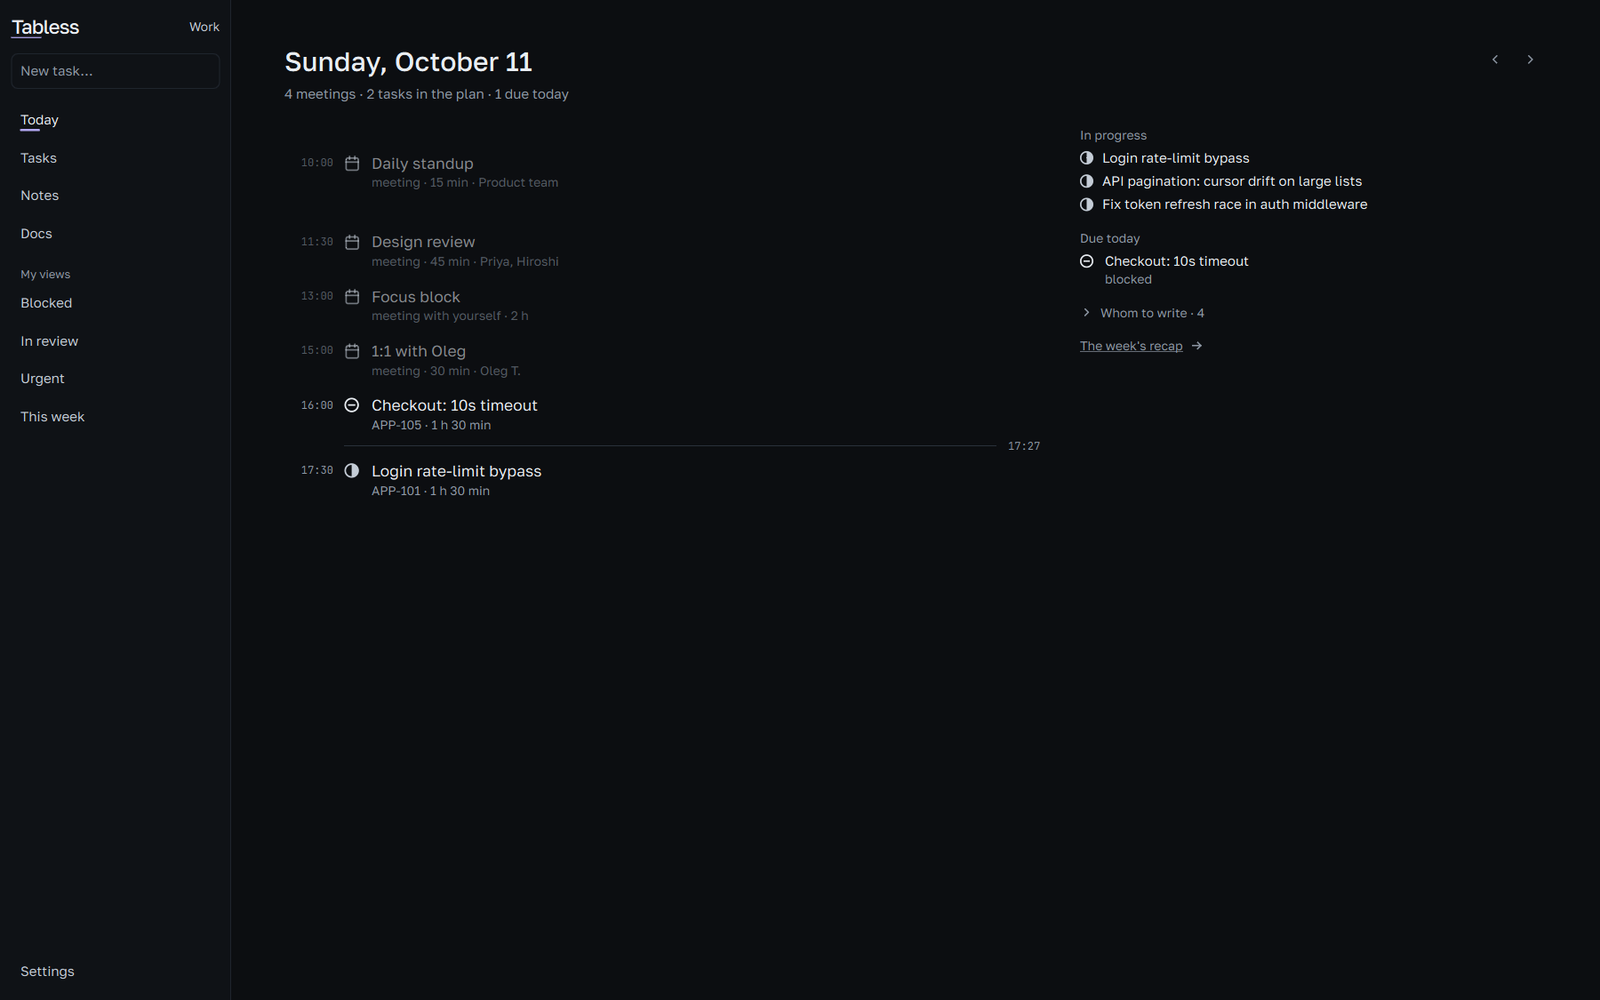
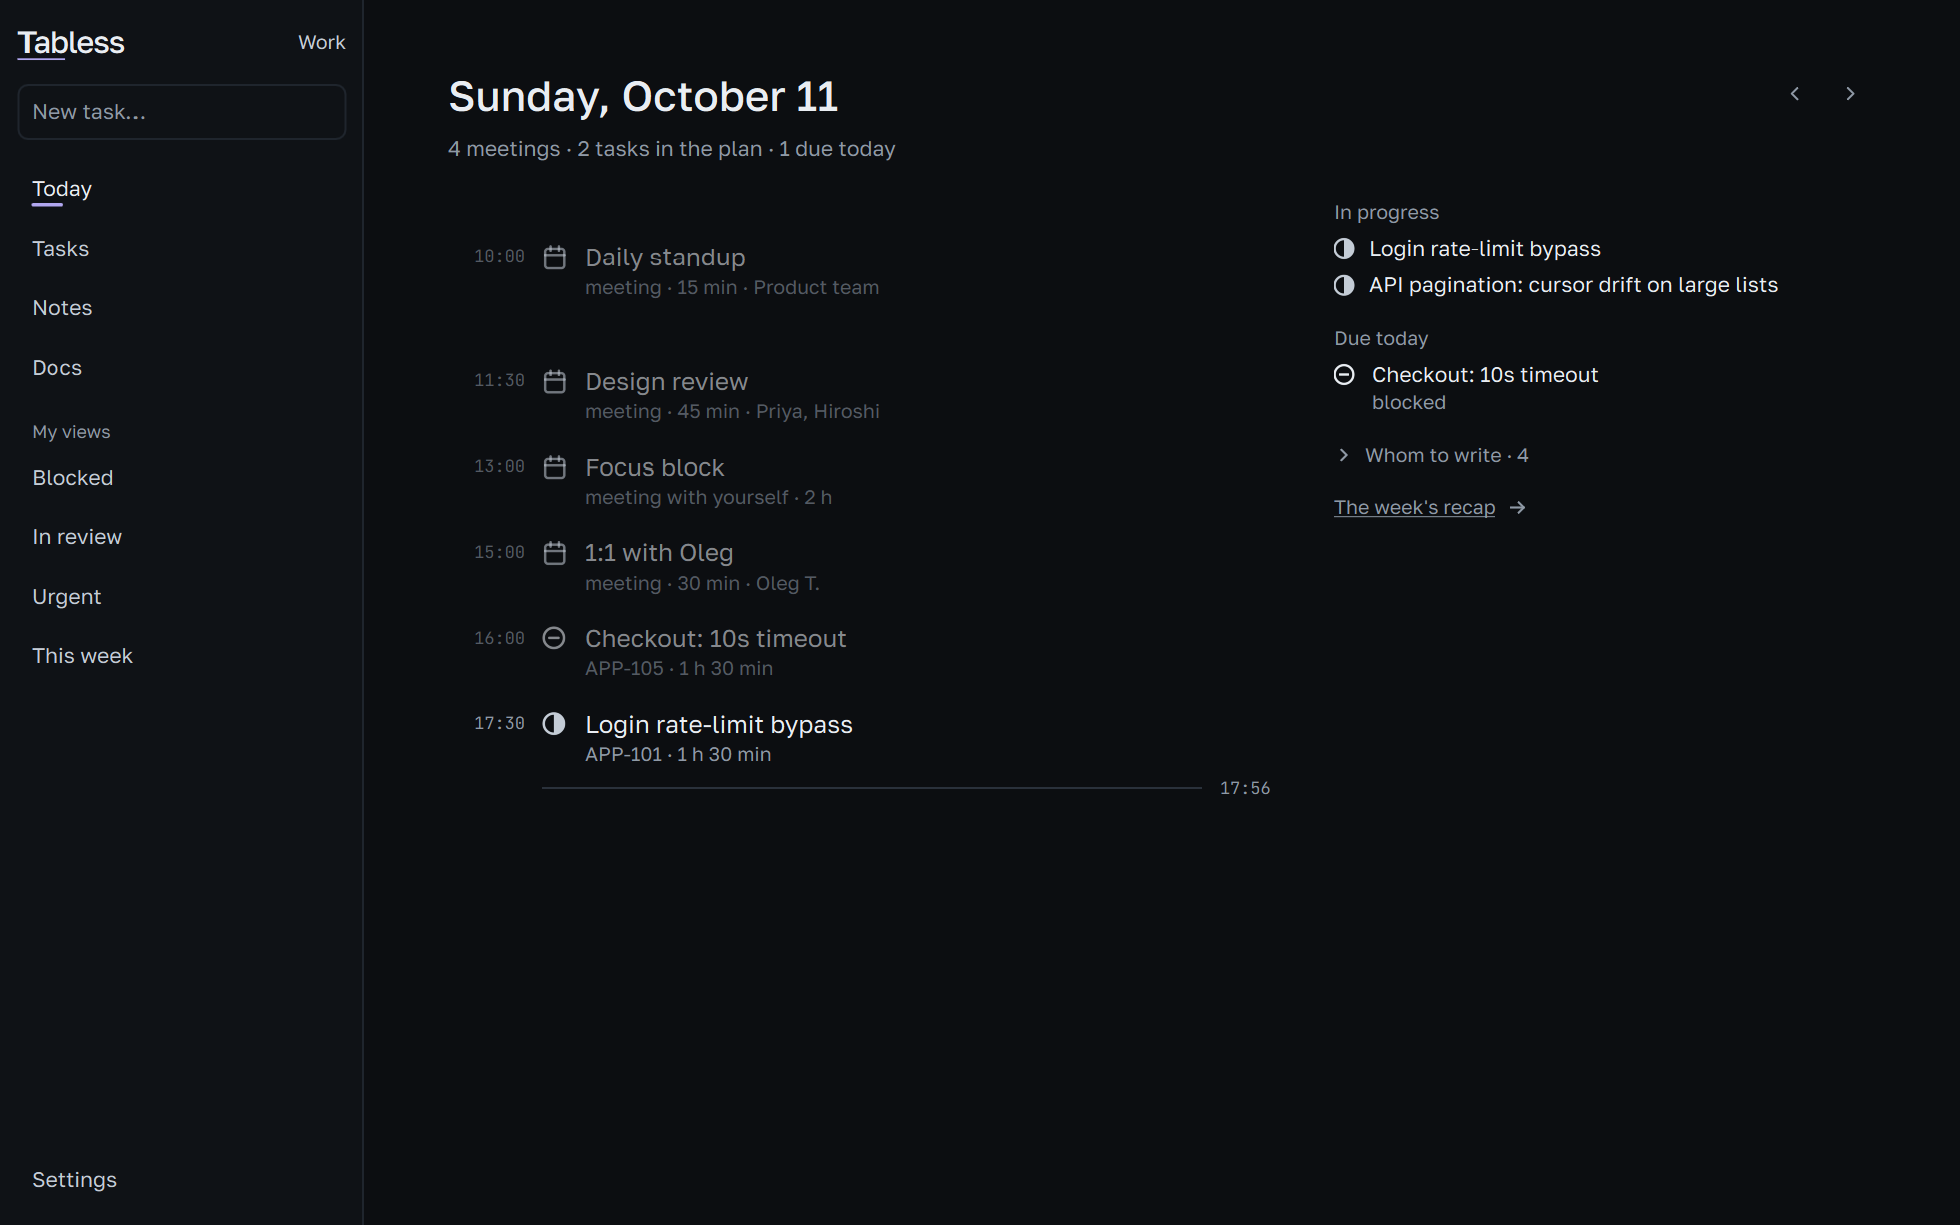
docs: README sells on the first two screens, screenshots readable at GitHub's width
The README leads with the tagline, five one-line benefits and the capture
GIF; below: a four-step start (with the lowkey/heap move and the unsigned
build note), a day with it, what it never does unasked, keys and query
language, the CLI, who it is not for.

Screenshots shot at 1120 logical px wide (QT_SCALE_FACTOR 1.75, 1960x1225)
instead of 1440, so the UI lands at ~0.75x in the 838px README column
instead of ~0.58x; the board drops its empty lower half and the week has
meetings on every day.

diff --git a/README.md b/README.md
@@ -22,170 +22,128 @@
 <p align="center">
   <a href="https://github.com/sectapunterx/tabless/releases"><img src="https://img.shields.io/github/v/release/sectapunterx/tabless?sort=semver" alt="Release"></a>
   <a href="LICENSE"><img src="https://img.shields.io/badge/license-MIT-blue" alt="License: MIT"></a>
+  <img src="https://img.shields.io/badge/Windows%20·%20macOS%20·%20Linux-grey" alt="Windows, macOS, Linux">
 </p>
 
-If your work lives in someone else's tracker, your meetings in a calendar tab and your notes somewhere else
-again, Tabless is a desk of your own next to all of that. The tasks assigned to you, today's meetings and
-your notes sit in one native window on Windows, macOS or Linux, and you drive it from the keyboard. It's
-free, MIT-licensed and needs no account. The website has the full tour:
-<https://sectapunterx.github.io/tabless/>.
+- **Your tracker tasks, one list** — GitHub, GitLab, Jira, Trello, Gitea, Forgejo, Redmine, Todoist, Asana,
+  ClickUp, Sentry, Bitbucket, plus Mattermost for @mentions. Read-only unless you switch writes on.
+- **Capture from any app** — `Ctrl+Shift+Space`, type `fix login 15:00 p1 #auth`, done.
+- **Knows your branch** — check out `APP-112-…` and APP-112 is at the top of the window.
+- **Vim-style keys** — `j` `k`, `g b`, `d`, `/`; any layout, every key rebindable.
+- **Yours, on disk** — one readable `state.json`. No account, no analytics, works offline. Free, MIT.
 
 <p align="center">
   <img src="docs/assets/img/readme/capture.gif" width="100%" alt="Quick capture: typing 'fix login 15:00 p1 #auth' over the Today screen puts the task into today's plan at 15:00">
+  <br><sub>One line, and the task is in today's plan at 15:00</sub>
 </p>
 
-This page is the practical side: whether it fits you, what it will and won't touch, and how to get going.
+## Up and running in two minutes
 
-## Is it for you?
+1. **Install** — from [the latest release](https://github.com/sectapunterx/tabless/releases/latest): Windows
+   `setup.exe` or portable `.zip`, macOS `.dmg`, Linux `.AppImage` (Qt inside, nothing else to install).
+   Or `scoop bucket add tabless https://github.com/sectapunterx/tabless` then `scoop install tabless`.
+2. **Connect a tracker** — Settings → Integrations → **Connect with browser**. A token works everywhere too.
+3. **Add your calendar** — paste an `.ics` link from Outlook, Google or iCloud. Read-only.
+4. **Press `?`** — every key on one screen.
 
-**Probably yes, if:**
-
-- you take tasks from any of 13 trackers — GitHub, GitLab, Jira, Trello, Gitea, Forgejo, Redmine, Todoist,
-  Asana, ClickUp, Sentry, Bitbucket, and Mattermost (for @mentions) — one of them or several at once;
-- you'd rather press `j` than reach for the mouse, and you already know what `g g` does;
-- you want your plans in a file on your own disk, readable with any text editor;
-- you keep notes in Markdown, maybe in an Obsidian vault.
-
-**Probably not, if:**
-
-- you need a shared board for your team — it is a personal desk, the team's tracker stays the shared place;
-- you want something to plan your day for you — it shows you the facts and leaves the decisions to you;
-- you need live sync between machines today — moving work between computers is export and import for now;
-- you work from a phone — there is no mobile or web version.
-
-## What changes once it's installed
-
-**Mornings start on one screen.** Today puts the meetings and tasks of the day together, with what is in
-progress and what is due. Calendars come in by link (Outlook, Google, iCloud `.ics`), read-only.
-
-**Thoughts stop getting lost.** `Ctrl+Shift+Space` opens a capture line over whatever app you are in.
-Type `review PR tomorrow 11:00 p1 #api` — date, time, priority and label are read from the words, in
-English or Russian. `Ctrl+Shift+N` does the same for a note.
-
-**Your branch tells it what you're on.** Add a repository in Settings → Git. Check out `APP-112-…` and
-APP-112 shows at the top of the window; the PR state comes from your own `gh` or `glab`. Switching to the
-branch also moves the task to In Progress — one switch in the same settings turns that off.
-
-**Tickets get your private layer.** On any tracker task you can keep your own notes, checklist, tags and
-dates. A sync never overwrites them, and none of it goes back to the tracker.
-
-**Notes link to work.** Write `#APP-112` in a note and it becomes a link carrying the task's title. Bring an
-existing folder of `.md` files in — you see what will come in before anything is copied.
-
-<sub>Click a line to see the screen.</sub>
+**Coming from lowkey or heap?** Same app, new name. On the first start your data folder is copied over
+once — tasks, notes, settings, backups, snapshots and tracker tokens, so nothing needs signing in again.
+The old folder stays where it was, with a `MOVED-TO-TABLESS.txt` note inside.
 
 <details>
-<summary><b>Board — your tasks by status, one keypress per move</b></summary>
+<summary><b>Windows or macOS warns you on first launch?</b></summary>
 <br>
-<img src="docs/assets/img/readme/board.png" width="100%" alt="Tasks as a board">
-</details>
-<details>
-<summary><b>Week — meetings and planned tasks side by side</b></summary>
-<br>
-<img src="docs/assets/img/readme/calendar.png" width="100%" alt="Tasks as a week calendar">
-</details>
-<details>
-<summary><b>A task opens as a document — plan, code, history</b></summary>
-<br>
-<img src="docs/assets/img/readme/task.png" width="100%" alt="A task open as a document">
-</details>
-<details>
-<summary><b>Knowledge — Markdown notes linked to tasks</b></summary>
-<br>
-<img src="docs/assets/img/readme/knowledge.png" width="100%" alt="Knowledge with a note open">
-</details>
-<details>
-<summary><b><code>Ctrl+K</code> — find anything, run any command</b></summary>
-<br>
-<img src="docs/assets/img/readme/command.png" width="100%" alt="The command line over Tasks">
-</details>
-<details>
-<summary><b>The Quiet style — the same day, less on screen</b></summary>
-<br>
-<img src="docs/assets/img/readme/quiet.png" width="100%" alt="Today in the Quiet style">
-</details>
-
-## What it won't do without asking
-
-- **Write to your trackers.** Issues come in read-only. Changing an issue's status when you move its card
-  is a separate switch per tracker (GitHub, GitLab, Gitea, Forgejo, Jira), off until you turn it on — and
-  even then the issue is checked again before anything is sent. Titles, descriptions and comments are
-  never written. Details: [docs/INTEGRATIONS.md](docs/INTEGRATIONS.md).
-- **Phone home.** No analytics, no crash reports. The app checks for a new version on start — you can
-  turn that off in Settings → About — and installs one only when you click to update. The rest of its
-  traffic is what you connected yourself: trackers, calendar links, `gh`/`glab` for added repositories.
-- **Run in the background.** It works while its window or tray icon is open. Starting at login is off
-  until you switch it on.
-- **Lose your work.** A backup of your data is made daily by default (the newest 20 are kept), plus a time
-  machine of snapshots you can step back through.
-
-## Install
-
-From [the latest release](https://github.com/sectapunterx/tabless/releases/latest), where `X.Y.Z` is the
-version:
-
-| System | File |
-| --- | --- |
-| Windows | `tabless-vX.Y.Z-windows-setup.exe` — installer, or `tabless-vX.Y.Z-windows-portable.zip` — unzip anywhere and run `tabless.exe` |
-| macOS | `tabless-vX.Y.Z-macos.dmg` — open it and drag Tabless into Applications |
-| Linux | `tabless-vX.Y.Z-linux-x86_64.AppImage` — `chmod +x` and run; Qt is inside, nothing else to install |
-
-With [Scoop](https://scoop.sh) on Windows:
-
-```sh
-scoop bucket add tabless https://github.com/sectapunterx/tabless
-scoop install tabless
-```
-
-Uninstalling leaves your data folder in place.
-
-**Coming from lowkey or heap?** Tabless is the same app under a new name. On the first start your data
-folder is copied over once — tasks, notes, settings, backups, snapshots and tracker tokens, so nothing
-needs signing in again. The old folder stays where it was, with a `MOVED-TO-TABLESS.txt` note inside. The
-update check in lowkey finds the new version by itself.
-
-### Why Windows or macOS warns you on first launch
 
 The builds are not signed with a paid certificate yet: a free signing service for open-source projects
-turned the application down, and the Apple developer fee is not covered yet. So the first launch shows a
-warning that has nothing to do with the code itself.
+turned the application down, and the Apple developer fee is not covered yet. The warning has nothing to do
+with the code itself.
 
 - **Windows** — SmartScreen says "Windows protected your PC": click **More info → Run anyway**. Installing
-  with Scoop (above) skips the download prompt in the browser.
+  with Scoop skips the download prompt in the browser.
 - **macOS** — the app is ad-hoc signed but not notarized: right-click it in Applications → **Open**. On
   macOS 15 and later, open it once, then go to **System Settings → Privacy & Security → Open Anyway**.
 
-To check what you downloaded: every release ships `SHA256SUMS` and an SBOM next to the files, the in-app
-updater refuses a file whose checksum does not match, and the source is here under MIT if you'd rather
-[build it yourself](#building-from-source).
+Every release ships `SHA256SUMS` and an SBOM next to the files, the in-app updater refuses a file whose
+checksum does not match, and you can [build it yourself](docs/BUILDING.md).
+</details>
 
-## Ten keys to start with
+## A day with it
 
-| Key | What it does |
+**Morning.** Today shows the meetings and tasks of the day by the hour, plus what is in progress and due.
+The week puts the meetings and the planned work side by side.
+
+<p align="center">
+  <img src="docs/assets/img/readme/calendar.png" width="100%" alt="Tasks as a week calendar">
+  <br><sub>Week — meetings and planned tasks side by side</sub>
+</p>
+
+**A thought mid-call.** `Ctrl+Shift+Space` over any app. Date, time, priority and label are read from the
+words, in English or Russian. `Ctrl+Shift+N` does the same for a note.
+
+**Starting work.** Check out the ticket's branch — the task shows up top with its PR state from your own
+`gh` or `glab`, and moves to In Progress (one switch turns that off).
+
+<p align="center">
+  <img src="docs/assets/img/readme/board.png" width="100%" alt="Tasks as a board">
+  <br><sub>Board — your tasks by status, one keypress per move</sub>
+</p>
+
+**Your own layer on every ticket.** Private notes, checklist, tags and dates on any tracker task. A sync
+never overwrites them, and none of it goes back to the tracker.
+
+<p align="center">
+  <img src="docs/assets/img/readme/task.png" width="100%" alt="A task open as a document">
+  <br><sub>A task opens as a document — plan, code, history</sub>
+</p>
+
+**Notes that point at work.** `#APP-112` in a note becomes a link with the task's title. Bring an existing
+folder of `.md` files or an Obsidian vault — you see what comes in before anything is copied.
+
+<p align="center">
+  <img src="docs/assets/img/readme/knowledge.png" width="100%" alt="Notes with a note open">
+  <br><sub>Notes — Markdown linked to tasks</sub>
+</p>
+
+## It never does these without asking
+
+| | |
 | --- | --- |
-| `Ctrl+Shift+Space` | Capture a task from any app |
-| `Ctrl+K` | Command line — find anything, run any command |
-| `?` | Every key on one screen |
-| `Ctrl+1` / `Ctrl+2` / `Ctrl+3` | Today, Tasks, Knowledge |
-| `g b` · `g l` · `g c` | Board, list, calendar |
+| **Write to your tracker** | Issues come in read-only. Status on card move is a per-tracker switch, off by default, and the issue is re-checked before anything is sent. Titles, descriptions and comments are never written. |
+| **Phone home** | No analytics, no crash reports. The update check on start can be turned off; updates install only on your click. |
+| **Run in the background** | Only while its window or tray icon is open. Start at login is off. |
+| **Lose your work** | Daily backups (newest 20 kept) and a time machine of snapshots you can step back through. |
+
+<p align="center">
+  <img src="docs/assets/img/readme/quiet.png" width="100%" alt="Today in the Quiet style">
+  <br><sub>The Quiet style — the same day, less on screen</sub>
+</p>
+
+## Built for the keyboard
+
+| Key | Does |
+| --- | --- |
+| `Ctrl+K` | Find anything, run any command |
+| `Ctrl+1` `2` `3` | Today · Tasks · Notes |
+| `g b` · `g l` · `g c` | Board · list · calendar |
 | `j` `k` · `h` `l` | Move the cursor |
-| `d` | Done — on a done task, brings it back |
-| `s` | Schedule the task under the cursor |
-| `y y` · `y b` | Copy the task id · its branch name |
+| `d` · `s` | Done · schedule |
+| `y y` · `y b` | Copy task id · branch name |
 | `/` | Filter the section you are in |
 
-Single letters only act while you aren't typing. Keys are read by their place on the keyboard, so they
-work in any layout, and every one of them can be changed from the `?` screen. The full map is in
+Keys are read by their place on the keyboard, so they work in any layout. Full map:
 [docs/HOTKEYS.md](docs/HOTKEYS.md).
 
-The filter line takes conditions as well as words — the same in board, list and calendar:
+The filter is a small query language — same in board, list and calendar:
 
 ```
-status:blocked   due:week   scheduled:none   is:overdue   priority:p0,p1
-#label   branch:login   estimate:>2h   has:notes   sprint:current   -status:done   bug OR crash
+status:blocked  due:week  is:overdue  priority:p0,p1  branch:login  estimate:>2h  -status:done  bug OR crash
 ```
 
-## The terminal is part of it
+<p align="center">
+  <img src="docs/assets/img/readme/command.png" width="100%" alt="The command line over Tasks">
+</p>
+
+## And from the terminal
 
 ```sh
 tabless today                                  # overdue first, then what's on today
@@ -193,46 +151,25 @@ tabless add "fix login tomorrow 14:00 p1 #backend"
 tabless now                                    # the current task — fits a shell prompt
 ```
 
-With the window open, changes show up there at once. On Windows the command is `tabless-cli`. The rest,
-including a starship snippet: [docs/CLI.md](docs/CLI.md).
+Changes show up in the open window at once. On Windows the command is `tabless-cli`. Starship snippet and
+the rest: [docs/CLI.md](docs/CLI.md).
 
-## Where your data lives
+## Not for you if
 
-| Windows | macOS | Linux |
-| --- | --- | --- |
-| `%APPDATA%\Tabless\Tabless\` | `~/Library/Application Support/Tabless/Tabless/` | `~/.local/share/Tabless/Tabless/` |
-
-- `state.json` — tasks, meetings, notes and settings, in one human-readable file.
-- `backups/` and `history/` — scheduled copies and time-machine snapshots.
-- `logs/tabless.log` — attach it to a bug report.
-- Tracker tokens are kept out of `state.json`: in the system credential store on Windows, in a
-  `secrets.json` readable only by your user on macOS and Linux.
-
-Two computers: export a profile to JSON and import it on the other one — importing only adds, it never
-overwrites. More in [docs/DATA.md](docs/DATA.md).
+- you need a shared team board — this is your desk, the team's tracker stays the shared place;
+- you want something to plan your day for you — it shows the facts, the decisions stay yours;
+- you need live sync between machines — for now it is export and import;
+- you work from a phone — there is no mobile or web version.
 
 ## Docs
 
 - [Keyboard](docs/HOTKEYS.md) — every key, and how to rebind them
 - [Trackers](docs/INTEGRATIONS.md) — connecting each one; what is read, what may be written
-- [Data and backups](docs/DATA.md) — files, restores, moving between machines
-- [Command line](docs/CLI.md)
-- [Building from source](docs/BUILDING.md)
+- [Data and backups](docs/DATA.md) — where files live, restores, moving between machines
+- [Command line](docs/CLI.md) · [Tutorial](docs/TUTORIAL.md)
+- [Building from source](docs/BUILDING.md) — Qt 6.9+, C++20 · [Contributing](CONTRIBUTING.md)
 
-## Building from source
+Bug reports and pull requests are welcome — please attach `logs/tabless.log`.
 
-You need Qt 6.9 or newer and a C++20 compiler:
-
-```sh
-cmake -S . -B build -DCMAKE_BUILD_TYPE=Release
-cmake --build build -j
-```
-
-Per-platform setup is in [docs/BUILDING.md](docs/BUILDING.md); the code map and how to contribute are in
-[CONTRIBUTING.md](CONTRIBUTING.md). Bug reports and pull requests are welcome — please include
-`logs/tabless.log`.
-
-## License
-
-MIT — see [LICENSE](LICENSE). The bundled fonts (Golos Text, JetBrains Mono) are under the SIL OFL 1.1; see
+MIT — see [LICENSE](LICENSE). Bundled fonts (Golos Text, JetBrains Mono) are under the SIL OFL 1.1, see
 [THIRD_PARTY_NOTICES.md](THIRD_PARTY_NOTICES.md).
